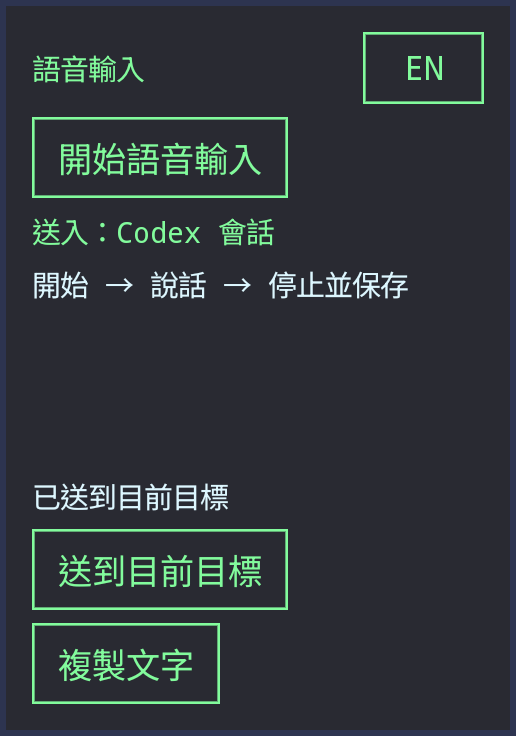
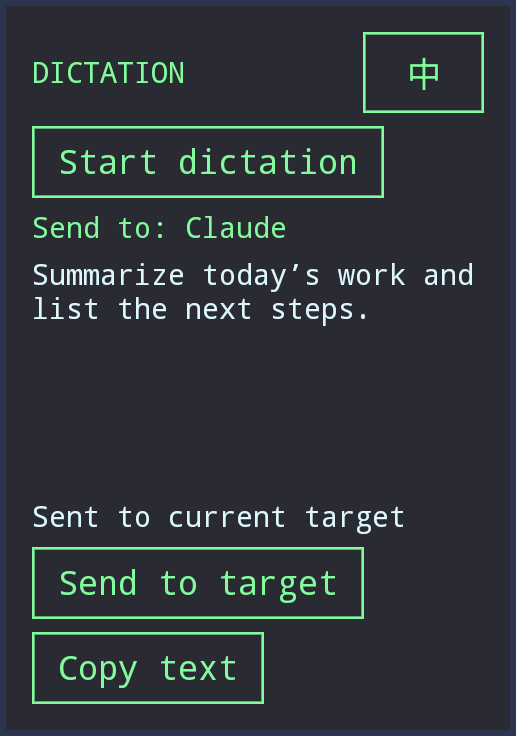
Show English in the store and by default; keep Chinese for earlier installs

diff --git a/dictation/index.html b/dictation/index.html
@@ -32,7 +32,7 @@ $('ui-language').onclick=async()=>{
  try{const response=await fetch('/language',{method:'POST',headers:{'Content-Type':'application/json','X-Speak-Token':token},body:JSON.stringify({language:value})});if(!response.ok)throw Error(await response.text());uiLanguage=value;applyLanguage();}
  catch(error){status.textContent='Language change failed: '+error.message;}
 };
-fetch('/language').then(r=>r.text()).then(value=>{uiLanguage=value.trim()==='en'?'en':'zh';applyLanguage();}).catch(()=>{});
+fetch('/language').then(r=>r.text()).then(value=>{uiLanguage=value.trim()==='zh'?'zh':'en';applyLanguage();if(!localStorage.getItem('oma-speak-language'))$('language').value=uiLanguage==='zh'?'zh-TW':'en-US';}).catch(()=>{});
 
 const Speech=window.SpeechRecognition||window.webkitSpeechRecognition;
 let recognition=null,wanted=false,timer=null,failures=0,committed='',interim='',afterStop=null;

diff --git a/tests/test_voice.py b/tests/test_voice.py
@@ -142,6 +142,12 @@ class VoiceTests(unittest.TestCase):
             for _ in range(2):
                 subprocess.run([sys.executable,str(ROOT/'install.py'),'--skip-deps'],env=env,check=True,stdout=subprocess.DEVNULL)
             self.assertEqual(config.read_text(),'{"auto":false}')
+            # A new install is English; one from before 3.3 that never chose a language stays Chinese.
+            language = home/'.config/omalauncher/voice-ui-language'
+            self.assertFalse(language.exists())
+            (home/build_store.MARKER).write_text('3.2-00000000')
+            subprocess.run([sys.executable,str(ROOT/'install.py'),'--skip-deps'],env=env,check=True,stdout=subprocess.DEVNULL)
+            self.assertEqual(language.read_text(),'zh')
             tile = (home/'.config/omalauncher/widgets/46-speak.owl').read_text()
             self.assertNotIn('__',tile.split('"""')[0])
             self.assertNotIn(directory,tile)
@@ -158,6 +164,12 @@ class VoiceTests(unittest.TestCase):
         self.assertEqual(''.join(parts),text)
         self.assertTrue(all(len(part) <= 1200 for part in parts))
         self.assertEqual(synthesize.pieces('短句'),['短句'])
+        # Notes added to English text are English, so the English voice is the one chosen for it.
+        english = voice.summarize('This sentence is part of a long reply. '*30+'See https://example.com and\n```\ncode\n```')
+        self.assertTrue(english.startswith('Excerpt. '))
+        self.assertFalse(voice.chinese(english))
+        self.assertFalse(voice.chinese(voice.clean_text('See https://example.com and\n```\ncode\n```')))
+        self.assertTrue(voice.summarize('這是一句很長的回覆。'*80).startswith('回覆節錄。'))
         self.assertEqual(voice.english('正在播放 · 自然語音（線上）'),'Playing · online natural')
         self.assertEqual(voice.english('播放完成 · 離線基本語音（'+synthesize.UNREACHABLE+'）'),'Finished · offline basic (online voice unreachable)')
         for reason in (synthesize.NOT_INSTALLED,synthesize.NO_MPG123,synthesize.UNREACHABLE):
@@ -175,6 +187,9 @@ class VoiceTests(unittest.TestCase):
                 for personal in ('/root/','/home/','__HOME__'):
                     self.assertNotIn(personal,text)
                 self.assertIn('version: "%s"'%build_store.VERSION,text)
+                # The store shows the name, the description and the preview as they are: English.
+                head = text.split('requires')[0]
+                self.assertFalse(voice.chinese(head),head)
                 self.assertEqual(text.count('"""')%2,0)
 
     def test_setup_script_installs_the_same_files_as_the_installer(self):
@@ -188,6 +203,16 @@ class VoiceTests(unittest.TestCase):
                 self.assertEqual(os.access(home/target,os.X_OK),executable)
             self.assertEqual((home/build_store.MARKER).read_text(),build_store.payload_id())
             self.assertEqual((home/'.cache/oma-voice/setup-state').read_text(),'done')
+            language = home/'.config/omalauncher/voice-ui-language'
+            subprocess.run(['bash','-c',script],env=dict(os.environ,HOME=directory),check=True)
+            self.assertFalse(language.exists())
+            (home/build_store.MARKER).write_text('3.2-00000000')
+            subprocess.run(['bash','-c',script],env=dict(os.environ,HOME=directory),check=True)
+            self.assertEqual(language.read_text(),'zh')
+            language.write_text('en')
+            (home/build_store.MARKER).write_text('3.1-00000000')
+            subprocess.run(['bash','-c',script],env=dict(os.environ,HOME=directory),check=True)
+            self.assertEqual(language.read_text(),'en')
 
 if __name__ == '__main__':
     unittest.main()

diff --git a/voice/oma_voice.py b/voice/oma_voice.py
@@ -59,10 +59,23 @@ def read_json(path, default=None):
         return default
 
 
+def chinese(text):
+    return any('㐀' <= c <= '鿿' for c in text)
+
+
+def read_text(path):
+    try:
+        return path.read_text().strip()
+    except OSError:
+        return ''
+
+
 def clean_text(text):
-    text = re.sub(r'```.*?```', '（程式碼略過）', text, flags=re.S)
+    # Spoken notes are in the language of the reply, or a Chinese voice would be picked for English text.
+    zh = chinese(text)
+    text = re.sub(r'```.*?```', '（程式碼略過）' if zh else ' (code omitted) ', text, flags=re.S)
     text = re.sub(r'!?\[([^\]]+)\]\([^)]*\)', r'\1', text)
-    text = re.sub(r'https?://\S+', '連結略過', text)
+    text = re.sub(r'https?://\S+', '連結略過' if zh else 'link omitted', text)
     text = re.sub(r'(?m)^\s*(?:#{1,6}\s+|[-*+]\s+|\d+[.)]\s+|>\s*)', '', text)
     text = text.replace('`', '').replace('**', '').replace('__', '')
     return ''.join(c for c in text if c in '\n\t' or (ord(c) >= 32 and ord(c) != 127)).strip()
@@ -91,7 +104,9 @@ def summarize(text, limit=360):
         used += len(s) + 1
     if warning:
         selected.append(warning[:limit // 2])
-    return '回覆節錄。' + ' '.join(selected) + ' 完整內容可選全文播放。'
+    if chinese(text):
+        return '回覆節錄。' + ' '.join(selected) + ' 完整內容可選全文播放。'
+    return 'Excerpt. ' + ' '.join(selected) + ' Play the full reply for the rest.'
 
 
 def completed_reply(event):
@@ -400,7 +415,8 @@ class Reader:
         if action == 'replay':
             self.play(self.state.get('full' if request.get('full') else 'summary', ''))
         elif action == 'test':
-            self.play('語音播報已連接。之後會自動播放這個對話的回覆摘要。')
+            zh = (read_text(HOME / '.config/omalauncher/voice-ui-language') == 'zh')
+            self.play('語音播報已連接。之後會自動播放這個對話的回覆摘要。' if zh else 'Voice is connected. A summary of each reply in this chat will be read aloud.')
         elif action == 'stop':
             self.stop()
         elif action == 'auto':

diff --git a/install.py b/install.py
@@ -43,6 +43,14 @@ def main():
         temp.chmod(0o700 if executable else 0o600)
         temp.replace(target)
         installed.append(relative)
+    # English became the default in 3.3: an earlier install that never chose a language stays Chinese.
+    language = home / '.config/omalauncher/voice-ui-language'
+    marker = home / build_store.MARKER
+    before = marker.read_text().split('-')[0] if marker.exists() else ''
+    earlier = before in ('3.0', '3.1', '3.2') or not before and (home / '.local/share/oma-voice/oma_voice.py').exists()
+    if earlier and not language.exists():
+        language.parent.mkdir(parents=True, exist_ok=True)
+        language.write_text('zh')
     for folder, destination in [('voice', '.local/share/oma-voice'), ('dictation', '.local/share/oma-speak'), ('bin', '.local/bin')]:
         for file in sorted((ROOT/folder).iterdir()):
             if file.is_file():
@@ -51,11 +59,11 @@ def main():
         write('.config/omalauncher/widgets/'+file.name, build_store.render(file.read_text()).encode())
     # The widgets show their own setup button until this names the programs they were built with.
     write(build_store.MARKER, build_store.payload_id().encode())
-    print('Installed 終端播報 and 語音輸入. Personal settings and conversation data were preserved.')
+    print('Installed Terminal Voice and Dictation. Personal settings and conversation data were preserved.')
     print('Updated files backed up at:', backup)
     print('After updating an already-running version, restart Linux once to reload its voice service.')
     print('Open Details to choose Codex chat or a tmux terminal, then tap Sync.')
-    print('Online voice sends reply text to Microsoft Edge TTS. Choose 聲音：離線 for local basic speech.')
+    print('Online voice sends reply text to Microsoft Edge TTS. Choose Voice: offline for local basic speech.')
     checker = shutil.which('owl-check')
     if checker and not args.skip_deps:
         for name in ('46-speak.owl', '47-voice-input.owl'):

diff --git a/tools/build_store.py b/tools/build_store.py
@@ -6,7 +6,7 @@ import re
 import sys
 
 ROOT = Path(__file__).resolve().parent.parent
-VERSION = '3.2'
+VERSION = '3.3'
 AUTHOR = 'weebowiz'
 # template -> store folder. Each folder's preview.png and README.md are kept by hand.
 WIDGETS = {'46-speak.owl': 'terminal-voice', '47-voice-input.owl': 'dictation'}
@@ -50,6 +50,14 @@ def setup_script():
         '# Written beside the old file and moved over it, so a running copy is never half written.',
         'put() { cat > "$1.new" && mv -f "$1.new" "$1" || { say failed; exit 1; }; }',
         'say installing',
+        '# English became the default in 3.3: an earlier install that never chose a language stays Chinese.',
+        'language="$HOME/.config/omalauncher/voice-ui-language"',
+        'earlier=no',
+        'case "$(cut -d- -f1 "$HOME/%s" 2>/dev/null)" in' % MARKER,
+        '  3.0|3.1|3.2) earlier=yes ;;',
+        '  "") [ -f "$share/oma-voice/oma_voice.py" ] && earlier=yes ;;',
+        'esac',
+        '[ "$earlier" = yes ] && [ ! -f "$language" ] && mkdir -p "$HOME/.config/omalauncher" && printf zh > "$language"',
     ]
     executables = []
     for number, (file, target, executable) in enumerate(payload_files()):

diff --git a/dictation/server.py b/dictation/server.py
@@ -31,7 +31,7 @@ class Handler(BaseHTTPRequestHandler):
         if self.headers.get('Host') != f'127.0.0.1:{PORT}':
             return self.reply(403, 'Invalid host')
         if self.path == '/language':
-            return self.reply(200, 'en' if LANG_PATH.exists() and LANG_PATH.read_text().strip() == 'en' else 'zh')
+            return self.reply(200, 'zh' if LANG_PATH.exists() and LANG_PATH.read_text().strip() == 'zh' else 'en')
         if self.path == '/health':
             return self.reply(200, 'oma-speak-v1')
         if self.path != '/':

diff --git a/docs/STORE_PLAN.md b/docs/STORE_PLAN.md
@@ -36,13 +36,16 @@
 - [x] 擁有者確認後開 PR：https://github.com/SimonSchubert/omarchy-widgets/pull/82 （CI 通過，等待維護者審核）
 - [x] 依維護者審核意見修改（3.2）：狀態檔只在變動時寫入；沒有會話或 tmux 時每 15 秒才檢查；閒置後暫停服務（預設 10 分鐘，可自訂或設為無限制）
 - [x] 手機複驗 3.2：按鈕正常，熄屏後完成的工作仍會播報；已推到 PR 分支並回覆維護者
-- [ ] 等維護者回覆（之後的想法：更多語言、工作完成時的手機通知）
+- [x] PR #82 已合併，兩個小工具以 3.2 上架
+- [ ] 3.3（本機已完成，待擁有者確認後開更新 PR）：商店顯示的名稱、說明、預覽圖改為英文；介面預設英文（3.3 之前安裝且沒選過語言的維持中文）；加在英文回覆裡的朗讀提示改為英文，避免英文回覆被中文語音朗讀
+- [ ] 之後：更多介面與朗讀語言、工作完成時的手機通知
 - [ ] PR 合併後把 `store-release` 合併回 `main`
 
 ## 投稿時踩到的商店 CI 規則
 
 - 檔案不能帶可執行權限（從 Windows 磁碟複製時會帶上，提交前 `chmod 644`）。
 - 命令的第一個字必須是 Arch 套件提供的程式；自己安裝的 `oma-voice`、`speak` 會讓套件檢查中止，所以改由 `python`、`bash` 呼叫。
+- 商店頁面直接顯示 `widget "名稱"`、`description` 和 `preview.png`，不會跟著介面語言切換，所以這三樣用英文。
 - 在 proot 內 `id -u` 是 0，但行程屬於 App 的實際使用者，不要用 `pkill -u`。
 
 ## 播報服務何時運行

diff --git a/README.md b/README.md
@@ -17,7 +17,7 @@ These screenshots use example text. The English pair shows a Claude terminal con
 
 - **Codex chat mode:** follows the latest local Codex conversation, displays completed replies and can automatically read a summary aloud. Dictation is sent through Omalauncher's `codex queue` command.
 - **Terminal mode:** reads the visible text of a dedicated tmux pane and sends dictated text to it when you tap **Send to target**. Start Codex, Claude, or another terminal program in that pane. Terminal playback is manual so changing prompts and progress messages are not read aloud repeatedly.
-- Both home-screen widgets and the browser dictation page share an English/Chinese interface switch. The reply or dictated text stays in its original language.
+- Both home-screen widgets and the browser dictation page share an English/Chinese interface switch; English is the default. The reply or dictated text stays in its original language.
 - The voice widget offers summary/full-screen playback, stop, refresh, source selection, and a detailed view. Online speech converts to playable WAV; offline speech uses espeak-ng.
 
 ## Install

diff --git a/store/widgets/weebowiz/terminal-voice/README.md b/store/widgets/weebowiz/terminal-voice/README.md
@@ -1,6 +1,6 @@
 # Terminal Voice (終端播報)
 
-Reads Codex replies or a tmux terminal aloud. English and Chinese interface.
+Reads Codex replies or a tmux terminal aloud. The interface is English by default; tap **中** on the tile for Chinese.
 
 - **Codex chat:** follows the latest local Codex conversation and can read a summary of each finished reply.
 - **Terminal / Claude:** run `tmux new -A -s oma-voice`, start Claude, Codex or any CLI there, and tap **Play** to hear the pane.
